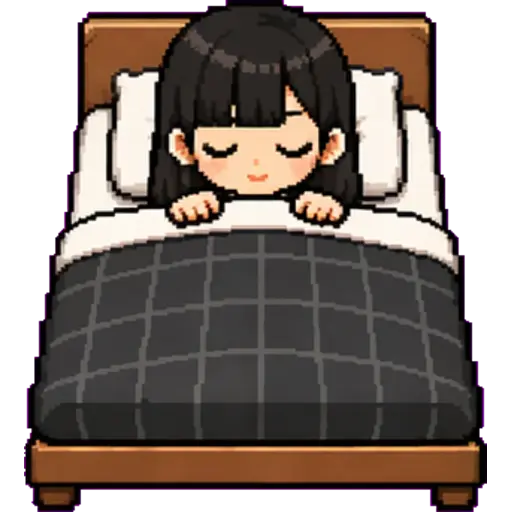
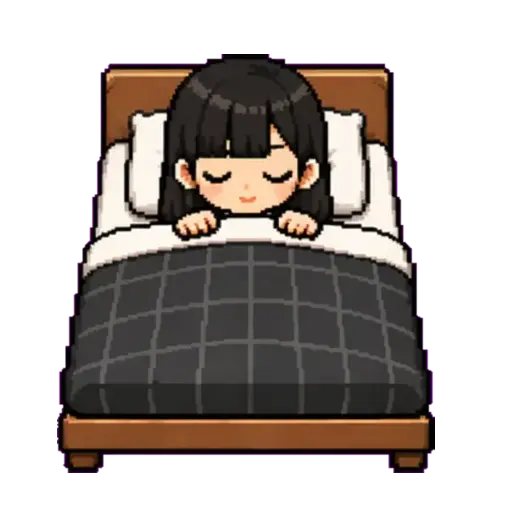
Fix check-in work log sync

diff --git a/lib/stores/work-log-store.test.ts b/lib/stores/work-log-store.test.ts
@@ -171,6 +171,109 @@ describe('useWorkLogStore team transition reset', () => {
   })
 })
 
+describe('useWorkLogStore check-in sync', () => {
+  beforeEach(() => {
+    resetStore()
+    vi.restoreAllMocks()
+  })
+
+  afterEach(() => {
+    vi.restoreAllMocks()
+  })
+
+  it('출근 직후 같은 날짜의 빈 로그를 들고 있어도 DB의 이월 할 일로 다시 동기화합니다', async () => {
+    vi.stubGlobal(
+      'fetch',
+      vi.fn(async () =>
+        createMockResponse({
+          session: {
+            active: { date: '2026-04-23' },
+            last: { date: '2026-04-23' },
+            date: '2026-04-23',
+          },
+          workLog: {
+            id: 'log-1',
+            date: '2026-04-23',
+            todos: [
+              {
+                id: 'carried-1',
+                text: '[어제 못한일] 정산 마무리',
+                completed: false,
+                order: 0,
+                priority: 'high',
+              },
+            ],
+            completed_todos: [],
+            roi_high: '',
+            roi_low: '',
+            tomorrow_priority: '',
+            feedback: '',
+          },
+        })
+      )
+    )
+
+    useWorkLogStore.setState({
+      currentLog: {
+        date: '2026-04-23',
+        todos: [],
+        completed_todos: [],
+        roi_high: '',
+        roi_low: '',
+        tomorrow_priority: '',
+        feedback: '',
+      },
+      isDirty: false,
+    })
+
+    await useWorkLogStore.getState().syncAfterCheckIn('2026-04-23')
+
+    expect(fetch).toHaveBeenCalledWith('/api/work-logs/today?date=2026-04-23')
+    expect(useWorkLogStore.getState().checkInDate).toBe('2026-04-23')
+    expect(useWorkLogStore.getState().currentLog?.todos).toEqual([
+      {
+        id: 'carried-1',
+        text: '[어제 못한일] 정산 마무리',
+        completed: false,
+        order: 0,
+        priority: 'high',
+      },
+    ])
+  })
+
+  it('출근 직전 사용자가 수정 중인 업무일지가 있으면 DB 재조회로 덮어쓰지 않습니다', async () => {
+    vi.stubGlobal('fetch', vi.fn())
+
+    useWorkLogStore.setState({
+      currentLog: {
+        date: '2026-04-23',
+        todos: [
+          {
+            id: 'local-1',
+            text: '작성 중인 로컬 할 일',
+            completed: false,
+            order: 0,
+            priority: 'normal',
+          },
+        ],
+        completed_todos: [],
+        roi_high: '',
+        roi_low: '',
+        tomorrow_priority: '',
+        feedback: '',
+      },
+      isDirty: true,
+    })
+
+    await useWorkLogStore.getState().syncAfterCheckIn('2026-04-23')
+
+    expect(fetch).not.toHaveBeenCalled()
+    expect(useWorkLogStore.getState().checkInDate).toBe('2026-04-23')
+    expect(useWorkLogStore.getState().currentLog?.todos[0].text).toBe('작성 중인 로컬 할 일')
+    expect(useWorkLogStore.getState().isDirty).toBe(true)
+  })
+})
+
 describe('useWorkLogStore todo priority', () => {
   beforeEach(() => {
     resetStore()

diff --git a/lib/stores/work-log-store.ts b/lib/stores/work-log-store.ts
@@ -63,6 +63,7 @@ interface WorkLogStore {
   clearError: () => void
   setDirty: (dirty: boolean) => void
   setCheckInDate: (date: string) => void
+  syncAfterCheckIn: (date: string) => Promise<void>
   resetForTeamTransition: () => void
 }
 
@@ -468,6 +469,20 @@ export const useWorkLogStore = create<WorkLogStore>()(
       
       setCheckInDate: (date) => {
         set({ checkInDate: date })
+      },
+
+      syncAfterCheckIn: async (date) => {
+        set({ checkInDate: date })
+
+        // 이유:
+        // 출근 API가 전날 미완료 할 일을 DB에 이월해도, 화면은 이미 같은 날짜의 빈 draft를
+        // 들고 있을 수 있습니다. 사용자가 아직 수정하지 않은 상태라면 같은 날짜라도 다시 읽어
+        // 서버가 만든 이월 항목을 즉시 보여주고, 수정 중인 draft는 덮어쓰지 않습니다.
+        if (get().isDirty) {
+          return
+        }
+
+        await get().loadTodayLog(date)
       },
 
       resetForTeamTransition: () => {

diff --git a/hooks/useVillageStatusController.ts b/hooks/useVillageStatusController.ts
@@ -146,11 +146,11 @@ export function useVillageStatusController() {
             }
           }
 
-          const { setCheckInDate } = await import('@/lib/stores/work-log-store').then(
+          const { syncAfterCheckIn } = await import('@/lib/stores/work-log-store').then(
             (module) => module.useWorkLogStore.getState()
           )
 
-          setCheckInDate(checkInDate)
+          await syncAfterCheckIn(checkInDate)
         } catch (initializeError) {
           console.error('Failed to initialize work log date:', initializeError)
         }